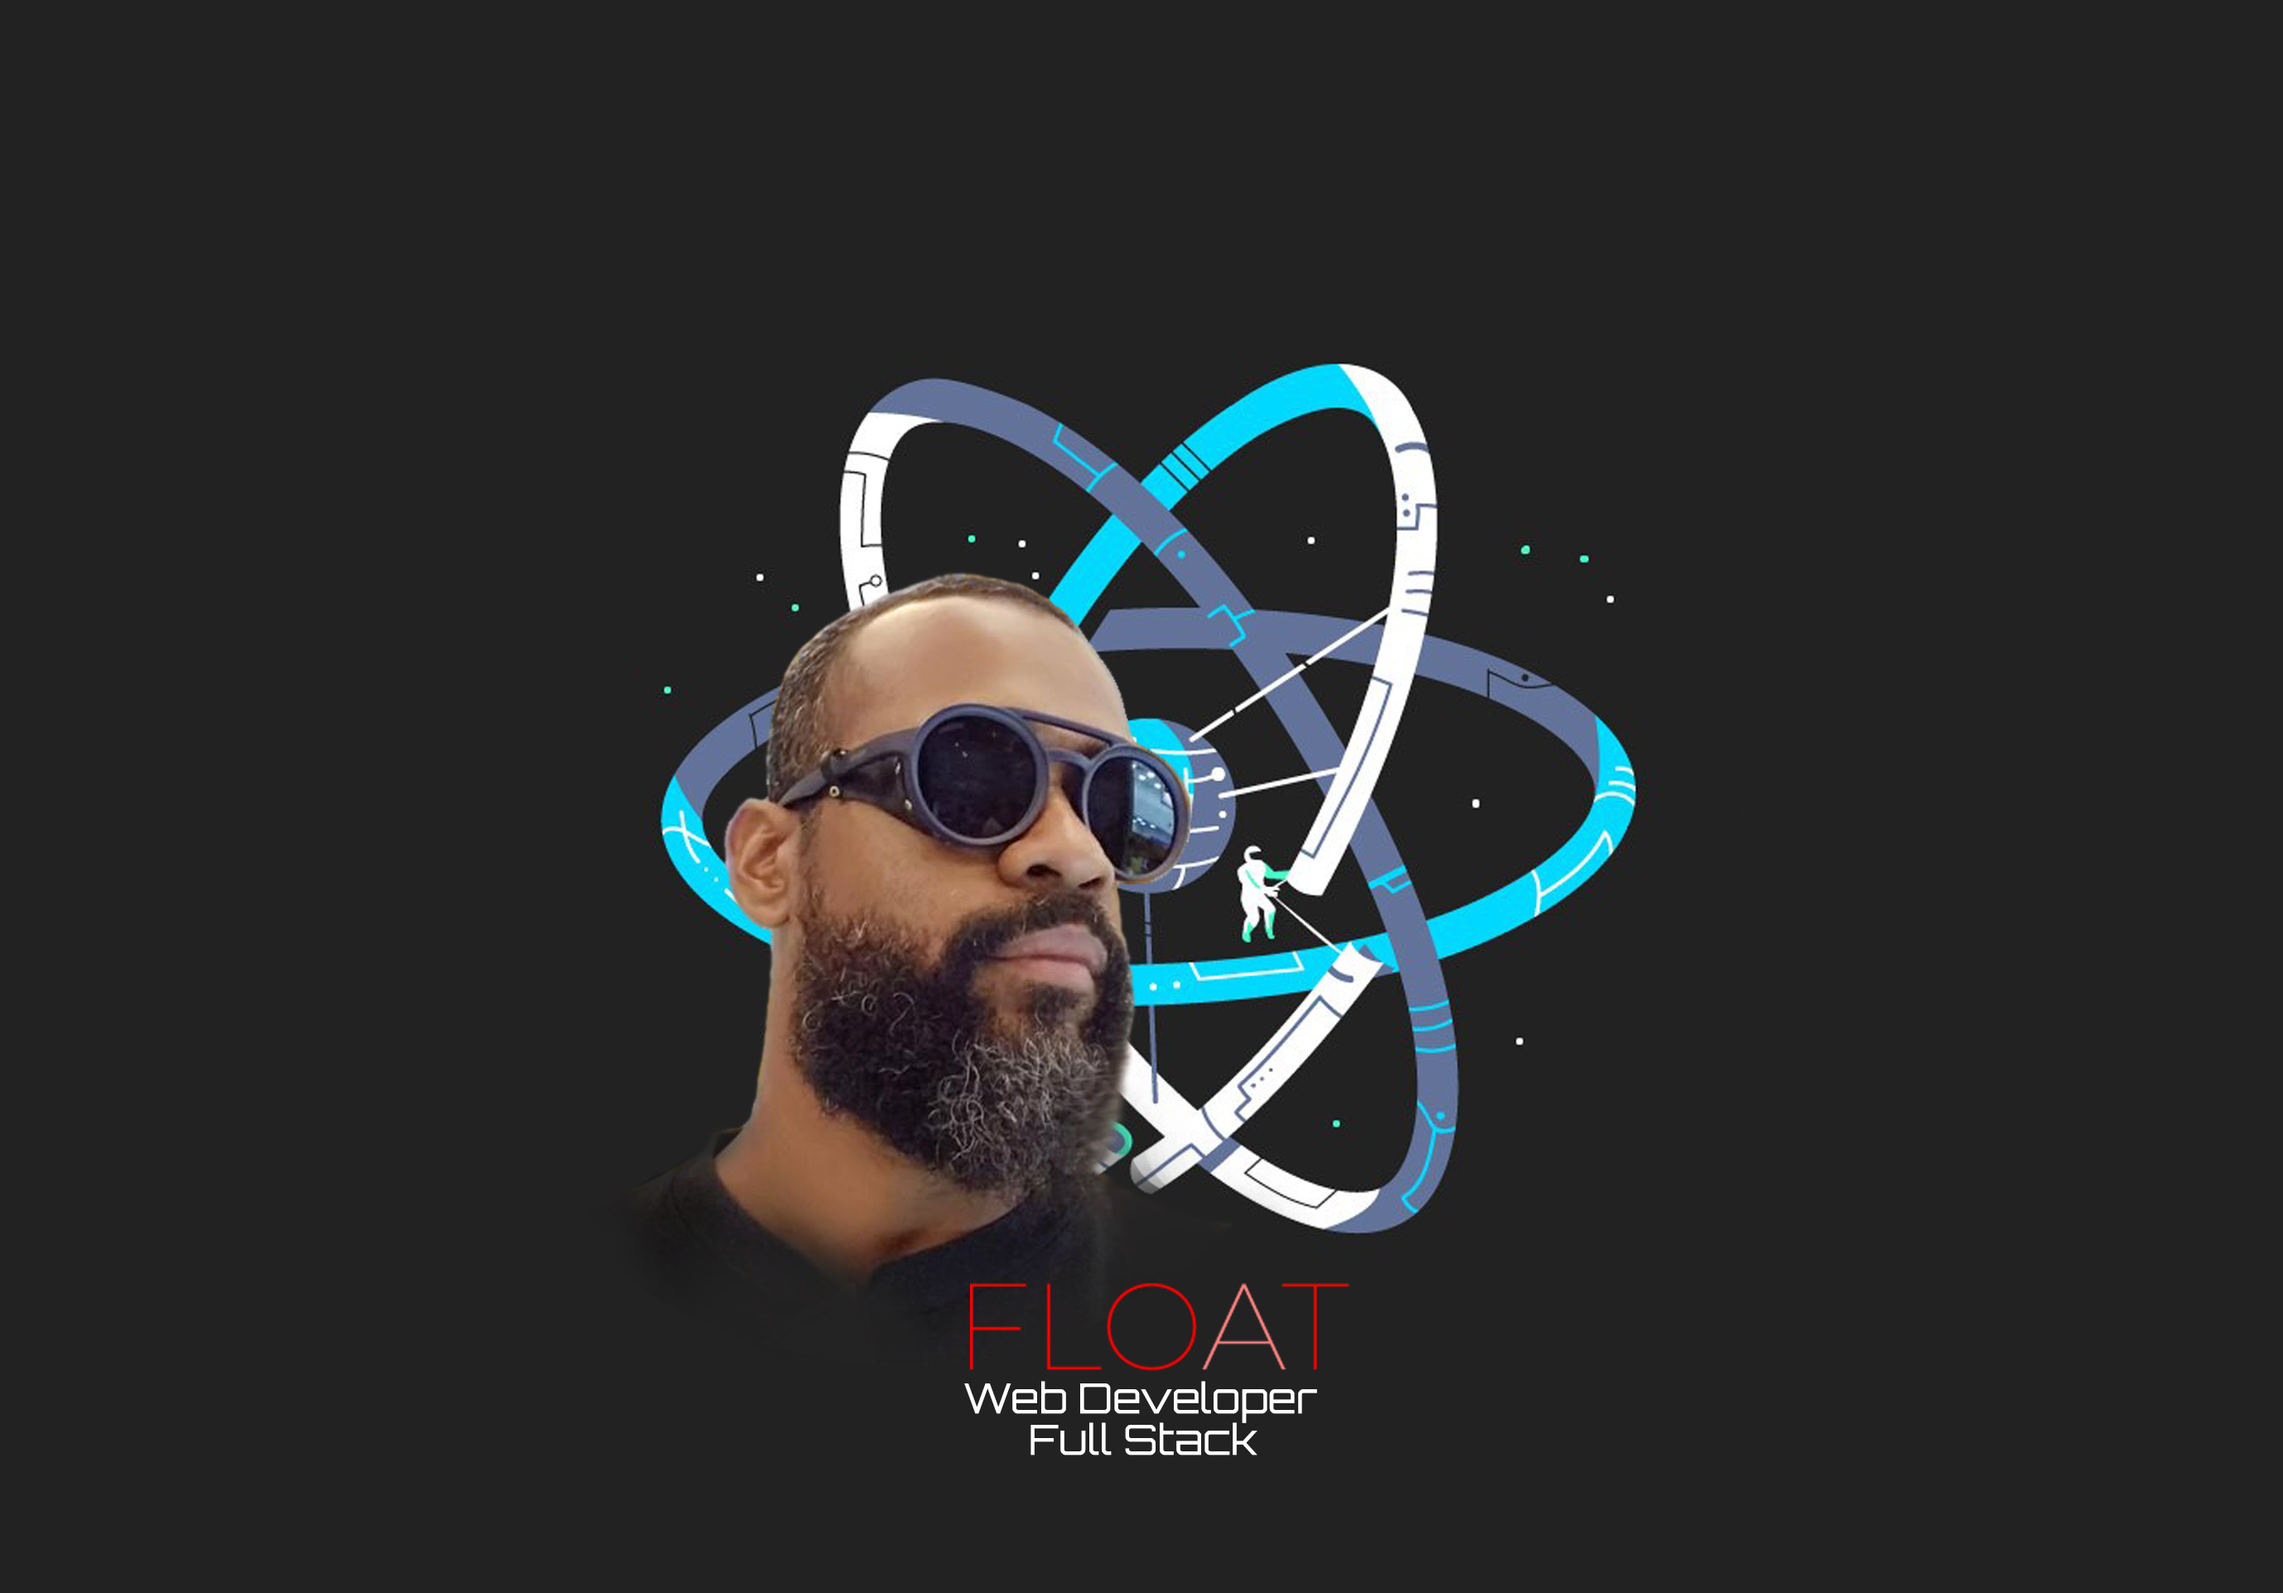
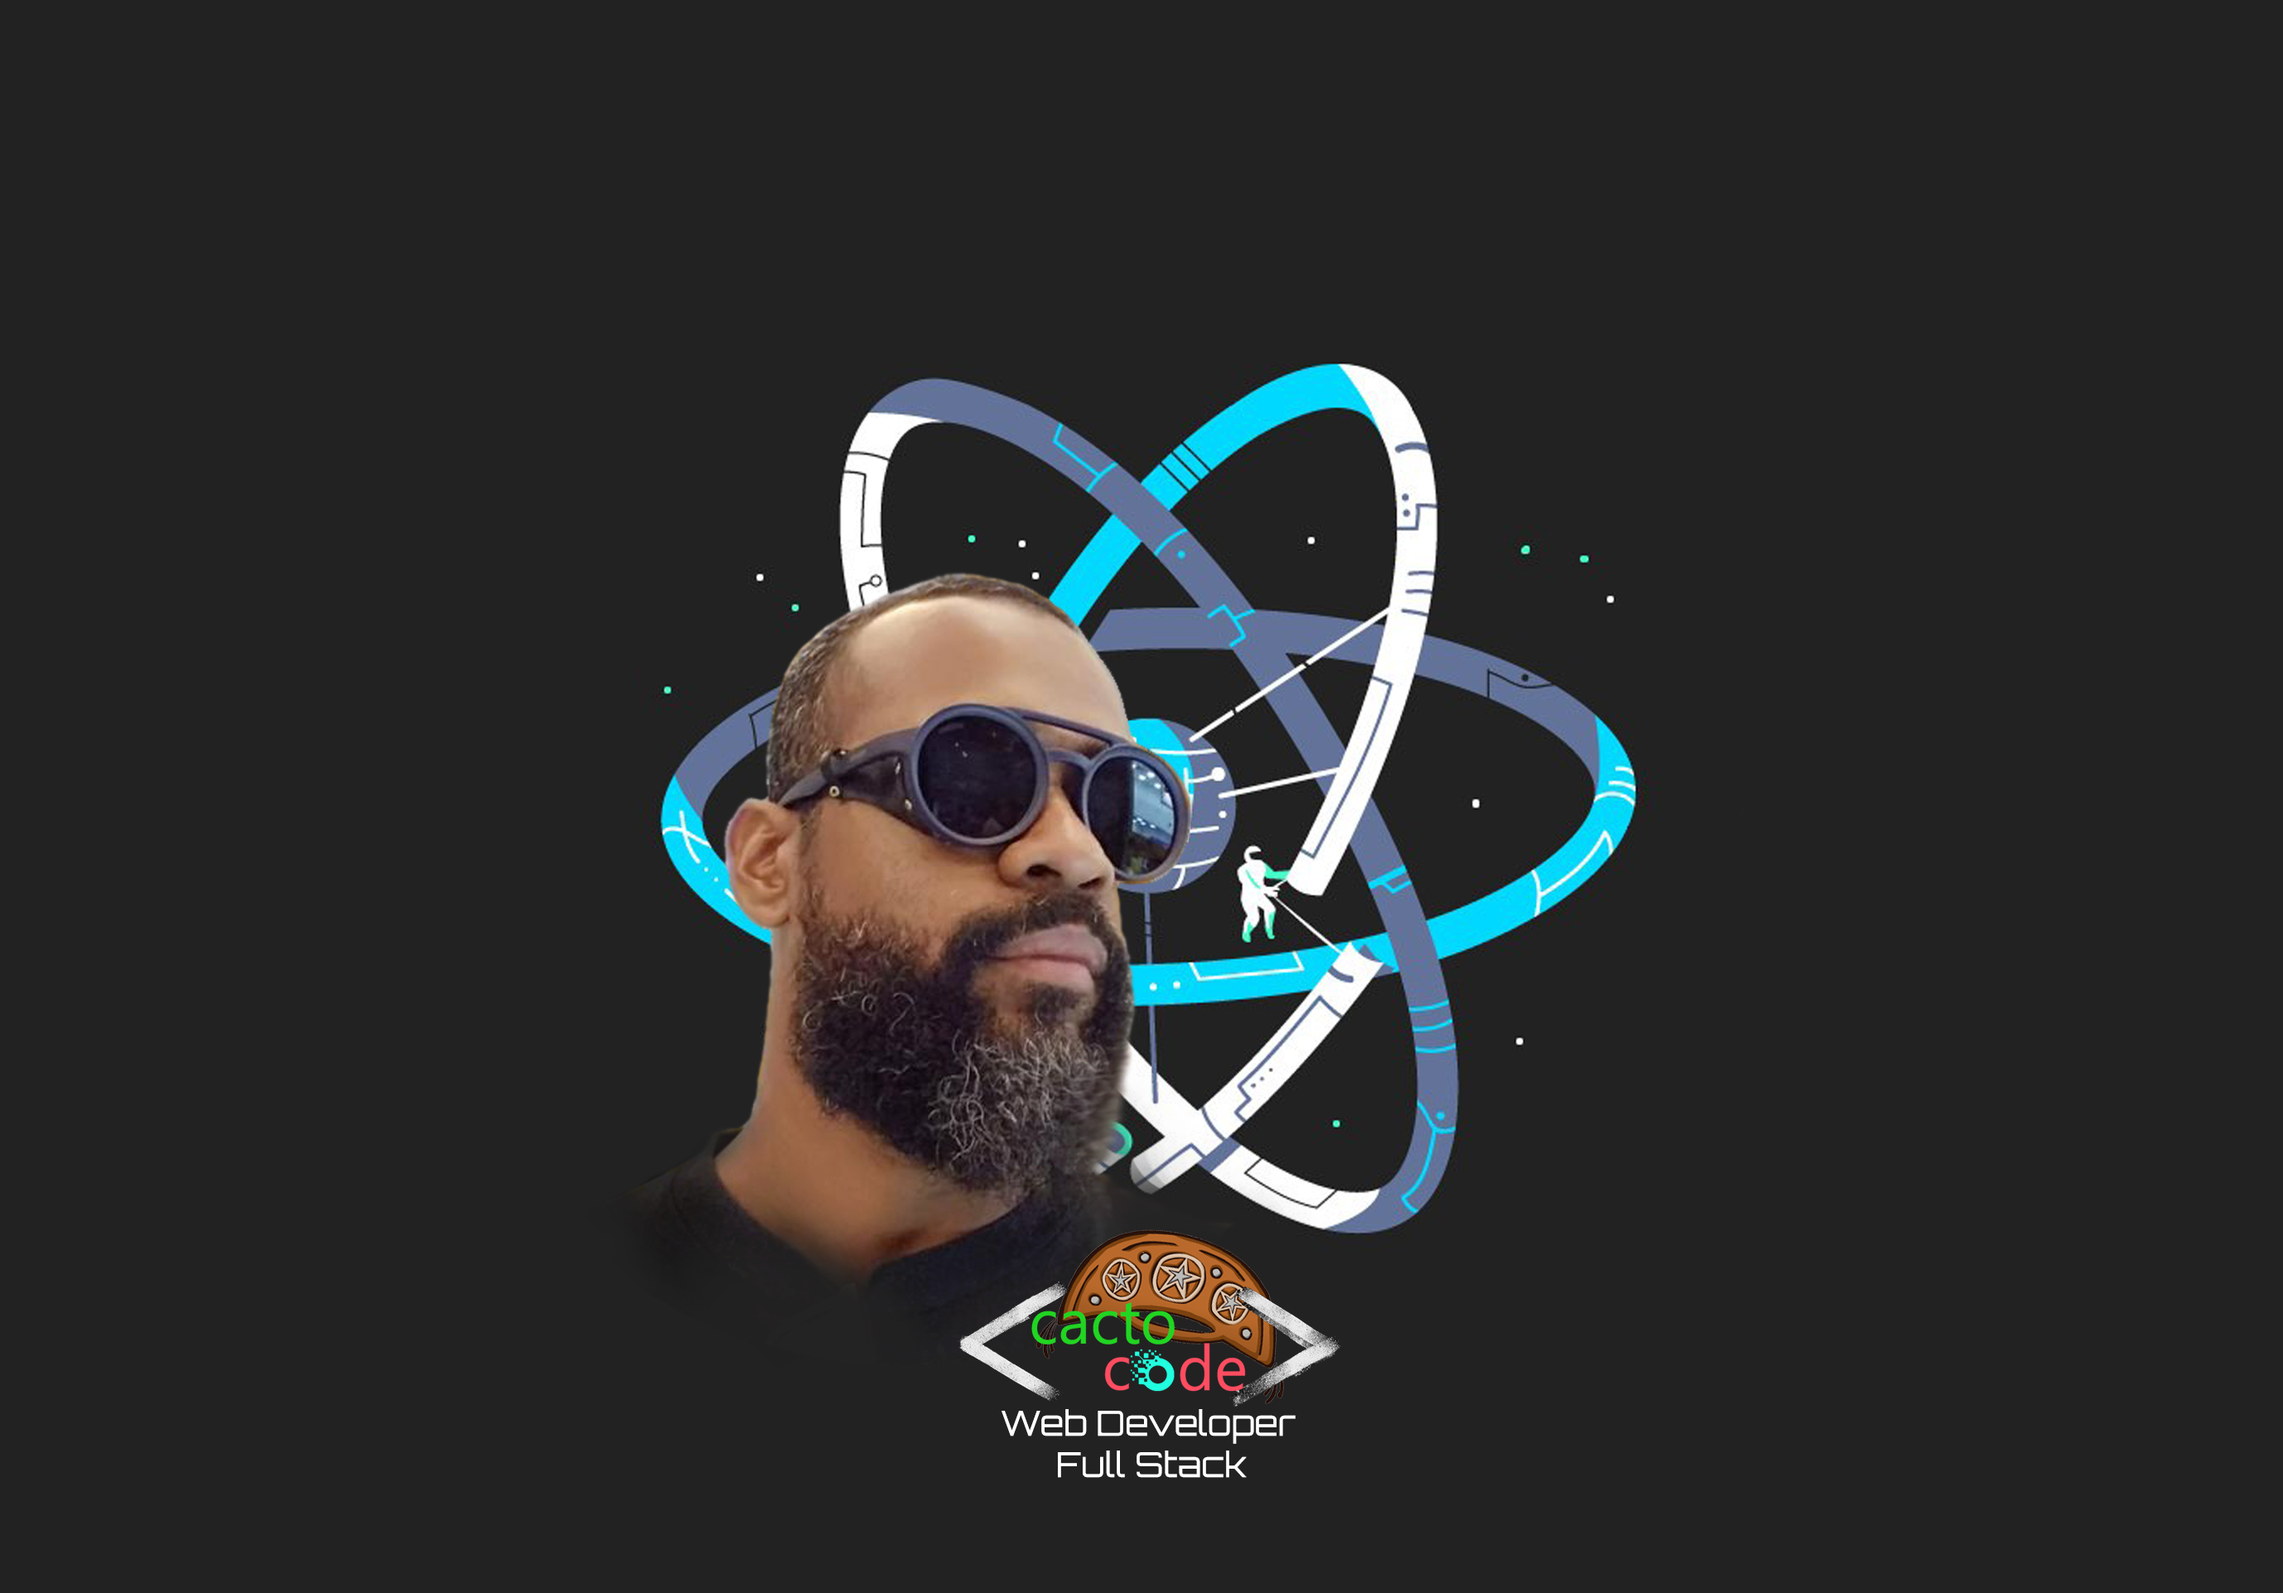
alter v1.2

Changed region(s): [[0.4057, 0.7488, 0.5929, 0.936]]

diff --git a/src/componente/Banner/Banner.module.css b/src/componente/Banner/Banner.module.css
@@ -1,6 +1,10 @@
 .banner {
   padding: 3rem 7.5rem 6.25rem;
   background-color: var(--azul-escuro);
+  background-image: url("assets/badge.png");
+  background-repeat: no-repeat;
+  background-position: left bottom;
+  background-size: 160px, cover;
   color: var(--branco);
   display: grid;
   grid-template-columns: 1fr 1fr;
@@ -100,5 +104,12 @@
   .imagens > .circuloColorido {
       width: 240px;
       transform: translate(-1.5rem, 0px);
+  }
+
+  @media (max-width: 425px) {
+    .banner{
+      background-image: none;
+    }
+    
   }
 }

diff --git a/src/paginas/NaoEncontrada/index.js b/src/paginas/NaoEncontrada/index.js
@@ -1,6 +1,6 @@
 import BotaoPrincipal from 'componente/BotaoPrincipal';
 import style from './NaoEncontrada.module.css';
-import erro404 from 'assets/erro_404.png';
+import erro404 from 'assets/page_not_found.png';
 import { useNavigate } from 'react-router-dom';
 
 export default function NaoEncontrada() {

diff --git a/src/componente/Menu/Menu.module.css b/src/componente/Menu/Menu.module.css
@@ -10,6 +10,7 @@
   left: 0;
   top: -0.3;
   height: 175px;
+  
 }
 
 @media (max-width: 744px) {
